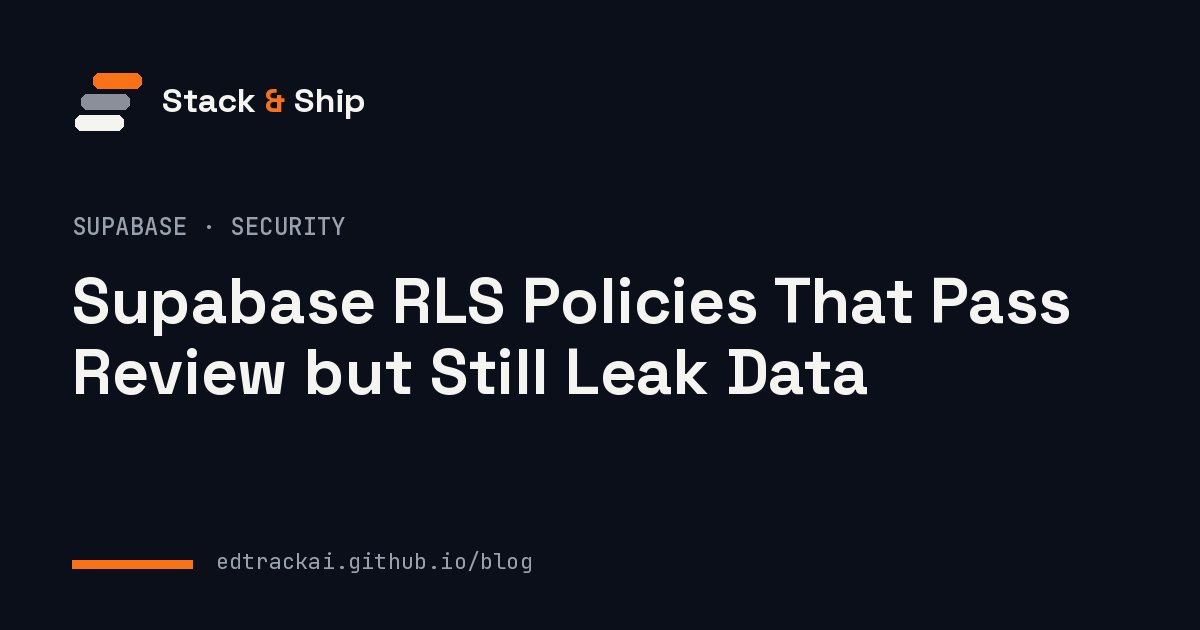
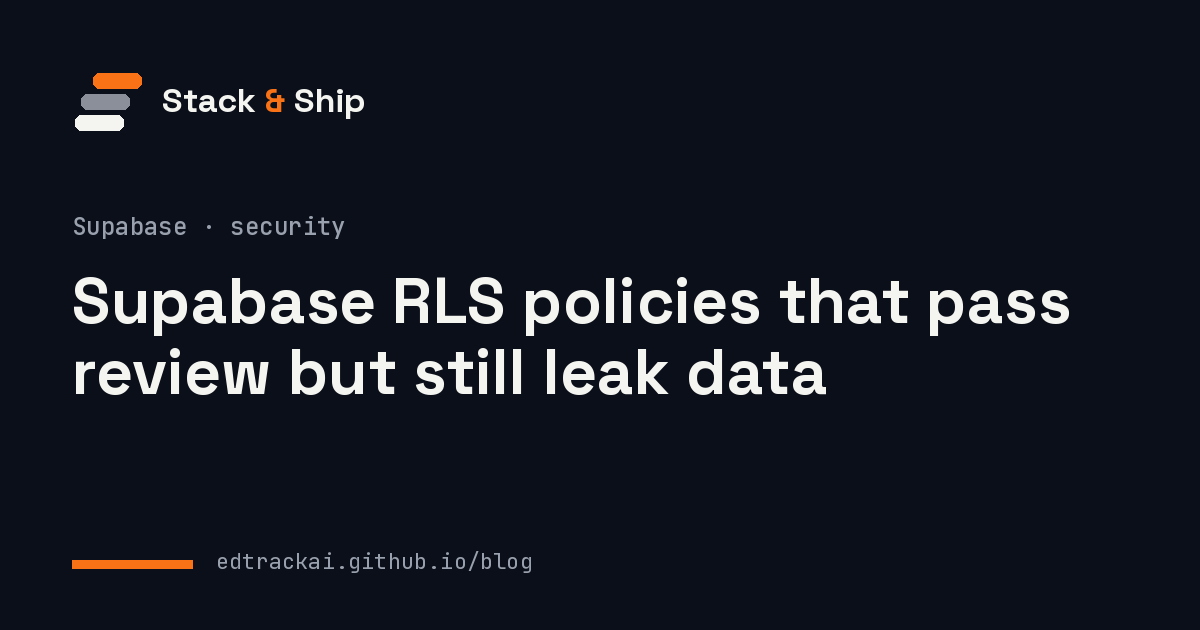
Deploy rel-1017b-r 8cda42b: sentence-case pricing labels, service-role og alt, Oxford comma

Changed region(s): [[0.0617, 0.4222, 0.8633, 0.6333], [0.185, 0.3317, 0.3083, 0.3921], [0.0617, 0.3317, 0.1542, 0.3921]]

diff --git a/ai-rules.html b/ai-rules.html
@@ -36,7 +36,7 @@
 <li>Typechecks, unit tests, and <code>next build</code> on a sample Next.js + Supabase + Stripe app</li><li>Checks on the demo app</li></ul>
 <div class="limits"><h2>What this doesn't do</h2><ul><li>Hooks reduce risk. They don't replace reviewing your code.</li><li>Built for Next.js + Supabase + Stripe. Other stacks get little from the skills.</li><li>No live Supabase or Stripe run yet. It hasn't been run against a live Supabase project or Stripe account.</li></ul></div>
 <h2>Pick a version</h2><div class="table-wrap"><table><caption>Free sample vs v1 vs v2</caption><thead><tr><th scope="col"></th><th scope="col">Free sample (GitHub)</th><th scope="col">v1 (previous version)</th><th scope="col" class="hl">v2 ($19, available now)</th></tr></thead><tbody><tr><th scope="row"><code>AGENTS.md</code> golden rules</th><td><span class="tick" aria-hidden="true">✓</span> Yes</td><td><span class="tick" aria-hidden="true">✓</span> Yes</td><td><span class="tick" aria-hidden="true">✓</span> Yes</td></tr><tr><th scope="row">Stripe <code>.mdc</code> rule</th><td><span class="tick" aria-hidden="true">✓</span> Yes</td><td><span class="tick" aria-hidden="true">✓</span> Yes</td><td><span class="tick" aria-hidden="true">✓</span> Yes</td></tr><tr><th scope="row">All 6 Cursor rules</th><td><span class="cross" aria-hidden="true">✗</span> No</td><td><span class="tick" aria-hidden="true">✓</span> Yes</td><td><span class="tick" aria-hidden="true">✓</span> Yes</td></tr><tr><th scope="row">Claude Code skills</th><td><span class="cross" aria-hidden="true">✗</span> No</td><td>5</td><td>18</td></tr><tr><th scope="row">Subagents</th><td><span class="cross" aria-hidden="true">✗</span> No</td><td><span class="cross" aria-hidden="true">✗</span> No</td><td>6</td></tr><tr><th scope="row">Guardrail hooks</th><td><span class="cross" aria-hidden="true">✗</span> No</td><td><span class="cross" aria-hidden="true">✗</span> No</td><td>3</td></tr><tr><th scope="row">Claude Code plugin</th><td><span class="cross" aria-hidden="true">✗</span> No</td><td><span class="cross" aria-hidden="true">✗</span> No</td><td><span class="tick" aria-hidden="true">✓</span> Yes</td></tr><tr><th scope="row">Reference/demo app</th><td><span class="cross" aria-hidden="true">✗</span> No</td><td><span class="tick" aria-hidden="true">✓</span> Yes</td><td><span class="tick" aria-hidden="true">✓</span> Yes</td></tr><tr><th scope="row">Licence</th><td>MIT</td><td>Single-user commercial</td><td>Single-user commercial</td></tr></tbody></table></div></section></div>
-<div class="wrap"><div class="pricing"><div class="pcard"><p class="eyebrow">FREE SAMPLE · MIT</p><h3>Free sample</h3><p class="outcome">Try the core rules in your repo.</p><p class="amount price">$0</p><p class="terms">on GitHub</p><ul class="check"><li><code>AGENTS.md</code> golden rules</li><li>The complete Stripe <code>.mdc</code> rule</li></ul><a class="btn btn-s" href="https://github.com/edtrackai/ship-ready-ai-rules-free-sample" data-ev="free-download-click" data-ev-product="ai-rules-sample">Get the free sample</a><p class="micro">MIT licence</p></div><div class="pcard"><p class="eyebrow">AI RULES · V2 <span class="badge badge-new">New in v2</span></p><h3>Ship-Ready AI Rules v2</h3><p class="outcome">Rules are advice. v2 enforces them.</p><p class="amount price">$19</p><p class="terms"><span class="nw">one-off</span> · free for v1 buyers</p><ul class="check"><li>3 guardrail hooks</li><li>18 skills</li><li>6 subagents</li><li>Claude Code plugin + Cursor rules + <code>AGENTS.md</code></li><li>Demo app, 13 hook test groups, <code>npm run verify</code></li><li>Everything from v1</li></ul><a class="btn btn-p" href="https://luxurydrive0.gumroad.com/l/ffjsf?utm_source=site&amp;utm_medium=web&amp;utm_campaign=sprint1&amp;utm_content=ai-rules" data-ev="buy-click" data-ev-product="ai-rules" data-ev-position="pricing">Get v2: $19</a><p class="micro">Sold via Gumroad (merchant of record)</p></div></div></div>
+<div class="wrap"><div class="pricing"><div class="pcard"><p class="eyebrow">Free sample · MIT</p><h3>Free sample</h3><p class="outcome">Try the core rules in your repo.</p><p class="amount price">$0</p><p class="terms">on GitHub</p><ul class="check"><li><code>AGENTS.md</code> golden rules</li><li>The complete Stripe <code>.mdc</code> rule</li></ul><a class="btn btn-s" href="https://github.com/edtrackai/ship-ready-ai-rules-free-sample" data-ev="free-download-click" data-ev-product="ai-rules-sample">Get the free sample</a><p class="micro">MIT licence</p></div><div class="pcard"><p class="eyebrow">AI Rules · v2 <span class="badge badge-new">New in v2</span></p><h3>Ship-Ready AI Rules v2</h3><p class="outcome">Rules are advice. v2 enforces them.</p><p class="amount price">$19</p><p class="terms"><span class="nw">one-off</span> · free for v1 buyers</p><ul class="check"><li>3 guardrail hooks</li><li>18 skills</li><li>6 subagents</li><li>Claude Code plugin + Cursor rules + <code>AGENTS.md</code></li><li>Demo app, 13 hook test groups, <code>npm run verify</code></li><li>Everything from v1</li></ul><a class="btn btn-p" href="https://luxurydrive0.gumroad.com/l/ffjsf?utm_source=site&amp;utm_medium=web&amp;utm_campaign=sprint1&amp;utm_content=ai-rules" data-ev="buy-click" data-ev-product="ai-rules" data-ev-position="pricing">Get v2: $19</a><p class="micro">Sold via Gumroad (merchant of record)</p></div></div></div>
 <div class="wrap narrow"><section>
 <h2>The mistakes v1 already prevents</h2><p>Every one of these passes a click-through test. That's why they ship. The <a href="/blog/cursor-rules-nextjs-supabase-stripe">secure starting set of Cursor rules</a> explains each one.</p>
 <div class="table-wrap"><table><caption>Mistakes the v1 rules prevent</caption><thead><tr><th scope="col">What agents do</th><th scope="col">What the rule enforces</th></tr></thead><tbody><tr><th scope="row">Use the service/secret key in a page "to make the query work"</th><td>Two clients: user client (RLS) vs admin client (webhooks only)</td></tr><tr><th scope="row">Create tables and "add RLS later"</th><td>RLS + policies in the same migration</td></tr><tr><th scope="row">Call <code>request.json()</code> before verifying Stripe webhooks</th><td>Raw body → <code>constructEvent</code> → idempotency by event id</td></tr><tr><th scope="row">Grant access on the Checkout success URL</th><td>Access only from the webhook-mirrored subscription</td></tr><tr><th scope="row">Redirect to whatever <code>?next=</code> says</th><td><code>safeNext()</code>: relative paths only</td></tr></tbody></table></div>

diff --git a/uk-sole-trader-tracker.html b/uk-sole-trader-tracker.html
@@ -17,7 +17,7 @@
 <h2>Included free</h2><ul class="check"><li><b>Self Assessment filing checklist and allowable-expenses guide</b> (2026/27): key dates, MTD thresholds, a pre-filing checklist and a what-counts table, all linked to GOV.UK. Not tax advice.</li></ul>
 <h2>Who it's for</h2><p>UK sole traders with a straightforward business who want tidy records and a rough tax estimate before they file. For keeping on top of business tool costs, see the <a href="/blog/subscription-audit-indie-developers">subscription audit for indie developers</a>.</p>
 <div class="limits"><h2>What this doesn't do</h2><p>Estimates for a simple case only; not tax advice. Scottish income tax bands aren't modelled. It isn't Making Tax Digital software and can't submit to HMRC.</p></div>
-<h2>Price</h2><div class="pricing"><div class="pcard"><p class="eyebrow">SPREADSHEET</p><h3>UK Sole Trader Self-Assessment Tracker 2026/27</h3><p class="outcome">Tidy records and a tax estimate before you file.</p><p class="amount price">£12</p><p class="terms"><span class="nw">one-off</span></p><ul class="check"><li>Google Sheets and Excel</li><li>Income, expenses, mileage and use of home</li><li>Income tax and Class 4 NI estimates</li><li>VAT and MTD threshold watch</li><li>Self Assessment filing checklist included</li></ul><a class="btn btn-p" href="https://luxurydrive0.gumroad.com/l/bsuwo?utm_source=site&amp;utm_medium=web&amp;utm_campaign=sprint1&amp;utm_content=uk-sole-trader-tracker" data-ev="buy-click" data-ev-product="uk-tracker" data-ev-position="pricing">Get the tracker: £12</a><p class="micro">Sold via Gumroad (merchant of record)</p></div></div><p class="meta">Price is £12; Gumroad may show it converted to your local currency.</p>
+<h2>Price</h2><div class="pricing"><div class="pcard"><p class="eyebrow">Spreadsheet</p><h3>UK Sole Trader Self-Assessment Tracker 2026/27</h3><p class="outcome">Tidy records and a tax estimate before you file.</p><p class="amount price">£12</p><p class="terms"><span class="nw">one-off</span></p><ul class="check"><li>Google Sheets and Excel</li><li>Income, expenses, mileage and use of home</li><li>Income tax and Class 4 NI estimates</li><li>VAT and MTD threshold watch</li><li>Self Assessment filing checklist included</li></ul><a class="btn btn-p" href="https://luxurydrive0.gumroad.com/l/bsuwo?utm_source=site&amp;utm_medium=web&amp;utm_campaign=sprint1&amp;utm_content=uk-sole-trader-tracker" data-ev="buy-click" data-ev-product="uk-tracker" data-ev-position="pricing">Get the tracker: £12</a><p class="micro">Sold via Gumroad (merchant of record)</p></div></div><p class="meta">Price is £12; Gumroad may show it converted to your local currency.</p>
 <a class="btn btn-p" href="https://luxurydrive0.gumroad.com/l/bsuwo?utm_source=site&amp;utm_medium=web&amp;utm_campaign=sprint1&amp;utm_content=uk-sole-trader-tracker" data-ev="buy-click" data-ev-product="uk-tracker" data-ev-position="footer">Get the UK Sole Trader Tracker: £12</a></section></div><div class="wrap narrow"><section aria-labelledby="faq"><h2 id="faq">FAQ</h2><dl class="faq"><dt>Which tax year does it cover?</dt><dd>2026/27, 6 April 2026 to 5 April 2027, using GOV.UK rates.</dd><dt>Does it work in Google Sheets?</dt><dd>Yes. It was tested by importing into Google Sheets, and results match Excel and LibreOffice.</dd><dt>Can it submit my return to HMRC?</dt><dd>No. It isn't Making Tax Digital software and can't submit to HMRC. It keeps your records and quarterly totals ready for bridging software.</dd><dt>Does it model Scottish income tax?</dt><dd>No. Scottish income tax bands aren't modelled.</dd><dt>Is this tax advice?</dt><dd>No. It gives estimates for a simple case only. Check GOV.UK or talk to an accountant before you file.</dd></dl></section></div></main>
 <footer><div class="wrap"><p class="fine">New kits and fixes, about 2 emails a month: <a href="https://luxurydrive0.gumroad.com/subscribe?utm_source=site&amp;utm_medium=web&amp;utm_campaign=list&amp;utm_content=footer" data-ev="cta-click" data-ev-cta="footer">follow Stack &amp; Ship on Gumroad</a> (optional; unsubscribe any time).</p><p class="fine">Prices exclude VAT; UK and EU VAT is added at Gumroad checkout.</p><p><b>© 2026 Stack & Ship</b> · Solo Founder Tools</p><p>Products sold via Gumroad (merchant of record). Not tax, legal, or accounting advice. Notion, Cursor, Supabase, Stripe, and other names are trademarks of their owners; not affiliated or endorsed.</p><p><a href="/">Home</a> · <a href="/ai-rules">Ship-Ready AI Rules</a> · <a href="/solo-founder-os">Solo Founder OS</a> · <a href="/uk-sole-trader-tracker">UK Sole Trader Self-Assessment Tracker</a> · <a href="/launch-audit">Launch Audit</a> · <a href="/paid-mcp-starter">Paid MCP Starter</a> · <a href="/ship-it-bundle">Ship It Bundle</a> · <a href="/guardrails">Guardrails Pack</a> · <a href="/blog/">Blog</a> · <a href="/about">About</a> · <a href="/contact">Contact</a></p><p><a href="/privacy">Privacy</a> · <a href="/terms">Terms</a> · <a href="/refunds">Refunds</a> · <a href="/sitemap.xml">Sitemap</a> · <a href="#" data-optout role="button">Turn off analytics on this browser</a></p></div></footer>
 <script>(function(){var O;function off(){O=true;try{localStorage.setItem('ea_optout','1');localStorage.removeItem('ft');['s','utm_source','utm_medium','utm_campaign','utm_content'].forEach(function(k){sessionStorage.removeItem(k);localStorage.removeItem(k);});}catch(e){}}

diff --git a/guardrails.html b/guardrails.html
@@ -8,7 +8,7 @@
 <header class="top"><div class="wrap"><nav aria-label="Main"><a class="brand" href="/"><picture><source srcset="/visuals/logo/logo-dark.svg" media="(prefers-color-scheme: dark)"><img src="/visuals/logo/logo-light.svg" alt="Stack &amp; Ship home" width="175" height="28"></picture></a><div class="links"><a href="/ai-rules" data-ev="cta-click" data-ev-cta="nav">AI Rules</a><a href="/launch-audit" data-ev="cta-click" data-ev-cta="nav">Launch Audit</a><a href="/paid-mcp-starter" data-ev="cta-click" data-ev-cta="nav">MCP Starter</a><a href="/solo-founder-os" data-ev="cta-click" data-ev-cta="nav">Founder OS</a><a href="/uk-sole-trader-tracker" data-ev="cta-click" data-ev-cta="nav">UK Tax Tracker</a><a href="/blog/">Blog</a></div></nav></div></header>
 <main id="main"><div class="hero"><div class="wrap"><h1 class="h1-long reveal d1">Help stop your AI coding agent leaking secrets or touching production</h1>
 <p class="lede reveal d2">Hooks, permission presets, and git guards for Next.js + Supabase + Stripe apps built with Claude Code or Cursor. $24 <span class="nw">(UK buyers pay $28.80 incl.&nbsp;VAT)</span>.</p>
-<p>Free update: if you bought 1.0.x, 1.1.1 or 1.1.2, download 1.1.3 from your Gumroad library at no extra cost.</p>
+<p>Free update: if you bought 1.0.x, 1.1.1, or 1.1.2, download 1.1.3 from your Gumroad library at no extra cost.</p>
 <a class="btn btn-ship" href="https://luxurydrive0.gumroad.com/l/tyziji?utm_source=site&amp;utm_medium=web&amp;utm_campaign=sprint1&amp;utm_content=guardrails" data-ev="buy-click" data-ev-product="guardrails" data-ev-position="hero">Get the Guardrails Pack ($24; UK buyers pay $28.80 incl.&nbsp;VAT)</a><p class="micro">Prices exclude VAT; UK and EU VAT is added at Gumroad checkout.</p></div></div>
 <div class="wrap narrow"><div class="media"><picture><source type="image/webp" srcset="/visuals/guardrails-pack/gumroad-cover-1280x720-800.webp 800w, /visuals/guardrails-pack/gumroad-cover-1280x720.webp 1280w" sizes="(max-width: 720px) 100vw, 720px"><img src="/visuals/guardrails-pack/gumroad-cover-1280x720.png" width="1280" height="720" sizes="(max-width: 720px) 100vw, 720px" alt="Stack &amp; Ship Guardrails Pack, hooks for Claude Code and Cursor. &quot;Help stop your AI coding agent leaking secrets or touching production.&quot; Terminal output from the pack&#x27;s real PreToolUse hooks: curl uploading .env is denied (secret egress blocked), cat .env.local is denied, supabase db push is denied, git push --force is denied, and npm test is allowed." fetchpriority="high" loading="eager"></picture></div>
 <section><ul class="check"><li>A secret-egress hook that blocks commands and tool calls containing a live Stripe key, webhook secret, Supabase secret key, service-role key, GitHub token, or AWS access key id. It also blocks Claude Code from reading or writing curl/wget/netrc config files.</li><li>The same guard hook as AI Rules v2: blocks <code>supabase db push</code>, production deploys, Stripe live mode, force pushes, and <code>.env</code> reads.</li><li>New in 1.1 (beta, optional): the same rules as a Claude Code plugin (mod) you install from the pack, with a <code>/guardrails</code> command that lists what it blocked. Included in the pack. Not yet tested in a live interactive session.</li><li>Three Claude Code permission presets (solo, team, and CI), Cursor hooks for shell commands, file reads, and MCP calls, git pre-commit and pre-push guards, and 6 one-page fix guides.</li><li><b>Tested:</b> 437 test cases without the Claude Code CLI, 0 failures (<code>npm run verify</code> in the pack, tested on Node 20.19, requires Node 18+, nothing else installed); 440 with it (3 optional cases that need the Claude Code CLI and <code>CLAUDE_BIN</code>, no login), run 15 Oct 2026, plus 16 <code>claude plugin test</code> cases for the mod (synthetic events, not a live session) and 8,557 adversarial timing inputs, each required to finish within 5 seconds (worst case about 0.1 seconds in single runs on 15 Oct 2026; slower on a heavily loaded machine). Needs Claude Code 2.1.295+ for the hooks to block on a crash or timeout.</li></ul>

diff --git a/blog/supabase-service-role-key-exposed.html b/blog/supabase-service-role-key-exposed.html
@@ -1,5 +1,5 @@
 <!doctype html><html lang="en-GB"><head><meta charset="utf-8"><script>window.__eaS=location.search;window.__eaT=function(){var m=/[?&]qa=1(&|$)/.test(location.search)&&location.search.match(/[?&]qa_now=(\d{13})/);return m?+m[1]:Date.now();};</script><meta name="viewport" content="width=device-width,initial-scale=1">
-<title>Supabase Service Role Key Exposed? Check, Rotate, Prevent</title><meta name="description" content="How a Supabase service role or secret key leaks in Next.js apps, how to check your build and git history, how to rotate it, and how to stop it recurring."><link rel="canonical" href="https://edtrackai.github.io/blog/supabase-service-role-key-exposed"><meta property="og:type" content="article"><meta property="og:site_name" content="Stack & Ship"><meta property="og:locale" content="en_GB"><meta property="og:title" content="Supabase service role key exposed? How to check, rotate, and stop it happening again"><meta property="og:description" content="How a Supabase service role or secret key leaks in Next.js apps, how to check your build and git history, how to rotate it, and how to stop it recurring."><meta property="og:image" content="https://edtrackai.github.io/visuals/og/supabase-service-role-key-exposed.png"><meta property="og:image:width" content="1200"><meta property="og:image:height" content="630"><meta property="og:image:alt" content="Supabase Service Role Key Exposed? Check, Rotate, Prevent: Stack &amp; Ship"><meta name="twitter:image" content="https://edtrackai.github.io/visuals/og/supabase-service-role-key-exposed.png"><meta property="og:url" content="https://edtrackai.github.io/blog/supabase-service-role-key-exposed"><meta name="twitter:card" content="summary_large_image">
+<title>Supabase Service Role Key Exposed? Check, Rotate, Prevent</title><meta name="description" content="How a Supabase service role or secret key leaks in Next.js apps, how to check your build and git history, how to rotate it, and how to stop it recurring."><link rel="canonical" href="https://edtrackai.github.io/blog/supabase-service-role-key-exposed"><meta property="og:type" content="article"><meta property="og:site_name" content="Stack & Ship"><meta property="og:locale" content="en_GB"><meta property="og:title" content="Supabase service role key exposed? How to check, rotate, and stop it happening again"><meta property="og:description" content="How a Supabase service role or secret key leaks in Next.js apps, how to check your build and git history, how to rotate it, and how to stop it recurring."><meta property="og:image" content="https://edtrackai.github.io/visuals/og/supabase-service-role-key-exposed.png"><meta property="og:image:width" content="1200"><meta property="og:image:height" content="630"><meta property="og:image:alt" content="Blog card: Supabase service role key exposed? How to check, rotate, and stop it happening again. Real output of the free checker v0.6.0 on its vulnerable sample app: 4 critical service-role and server-secret findings, 22 more, summary critical 10, high 9, medium 6, low 1."><meta name="twitter:image" content="https://edtrackai.github.io/visuals/og/supabase-service-role-key-exposed.png"><meta property="og:url" content="https://edtrackai.github.io/blog/supabase-service-role-key-exposed"><meta name="twitter:card" content="summary_large_image">
 <meta name="theme-color" content="#FAFAF7" media="(prefers-color-scheme: light)"><meta name="theme-color" content="#0B0F19" media="(prefers-color-scheme: dark)">
 <link rel="icon" href="/visuals/logo/favicon.ico" sizes="48x48"><link rel="icon" href="/visuals/logo/favicon.svg" type="image/svg+xml"><link rel="apple-touch-icon" href="/visuals/logo/apple-touch-icon.png"><link rel="manifest" href="/site.webmanifest">
 <link rel="preload" href="/fonts/SpaceGrotesk-700.woff2" as="font" type="font/woff2" crossorigin>
